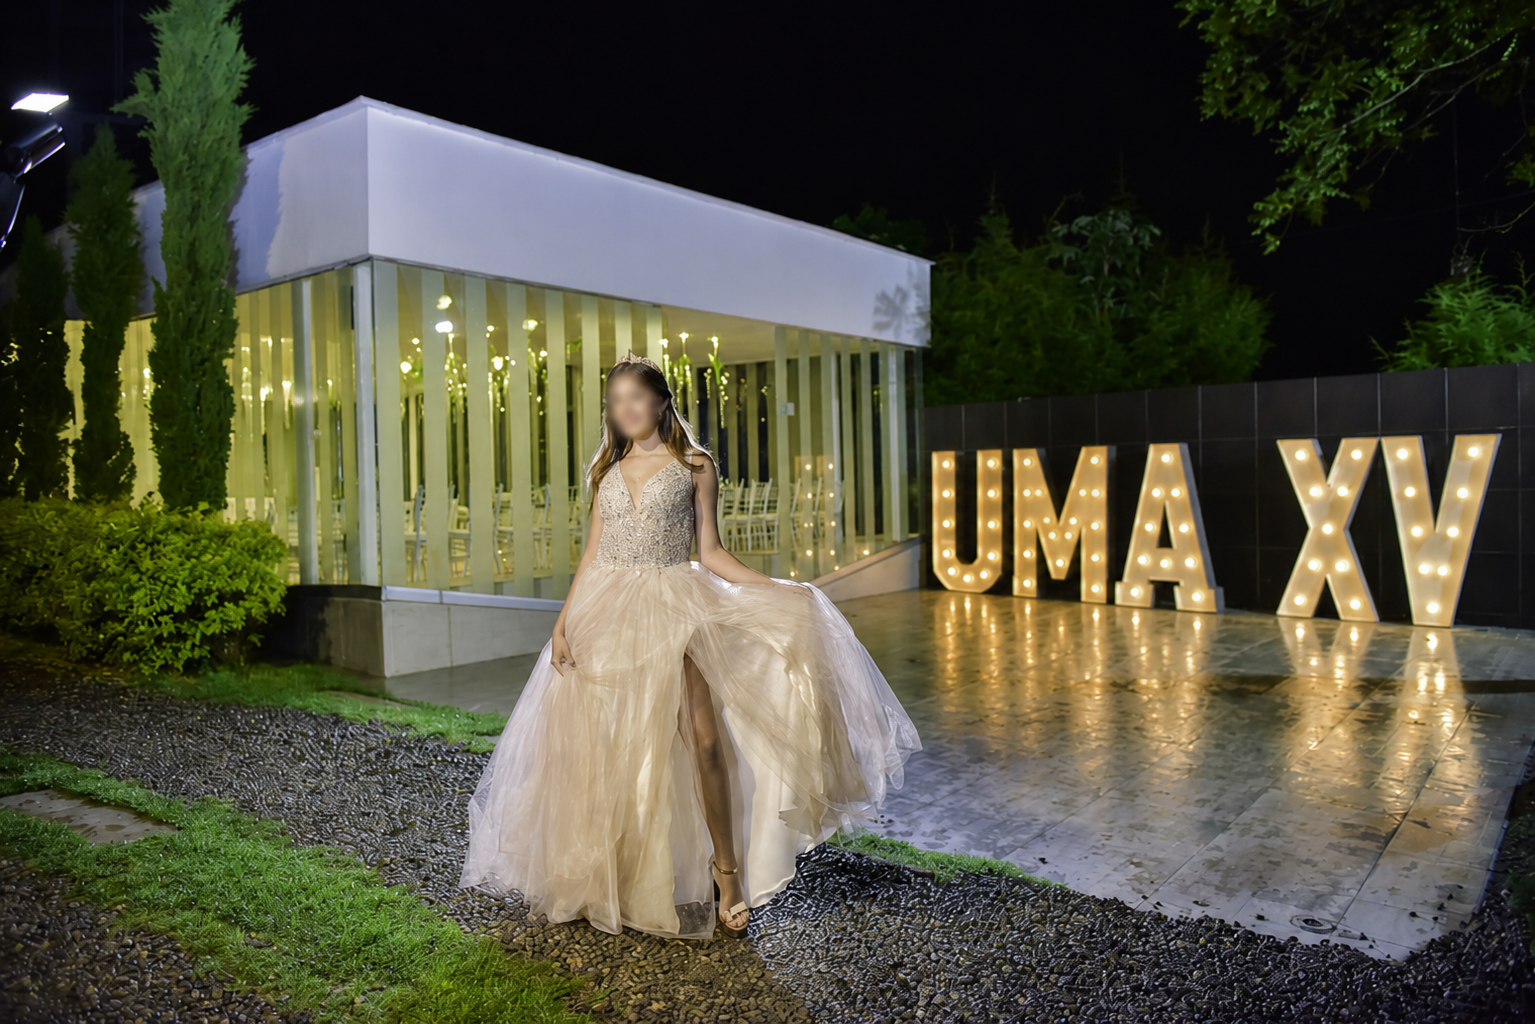
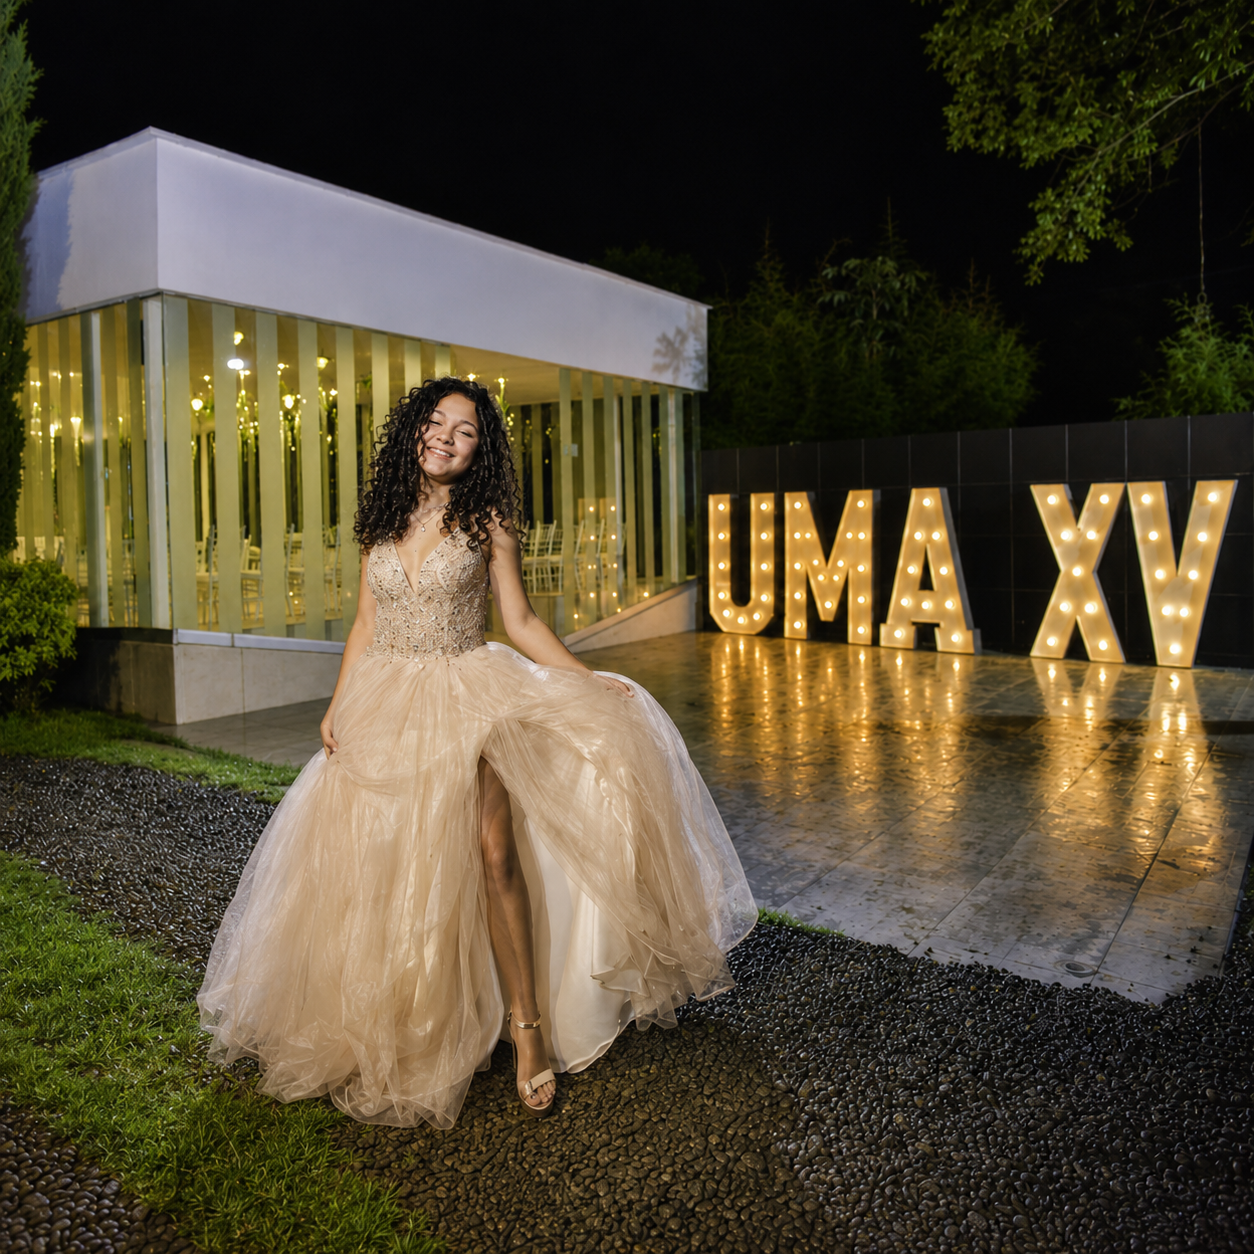
imagenes y textos

diff --git a/invitaciones/Uma/index.html b/invitaciones/Uma/index.html
@@ -130,23 +130,35 @@
 
             <div class="polaroid-container" id="polaroid-stack" data-aos="zoom-in">
                 <div class="polaroid">
-                    <img src="./assets/img/umi_test_1.jpg" alt="Umita 6">
+                    <img src="./assets/img/umi_1.jpg" alt="Umita 6">
                 </div>
                 <div class="polaroid">
-                    <img src="./assets/img/umi_test_2.jpg" alt="Umita 5">
+                    <img src="./assets/img/umi_2.jpg" alt="Umita 5">
                 </div>
                 <div class="polaroid">
-                    <img src="./assets/img/umi_test_3.jpg" alt="Umita 4">
+                    <img src="./assets/img/umi_3.jpg" alt="Umita 4">
                 </div>
                 <div class="polaroid">
-                    <img src="./assets/img/umi_test_4.jpg" alt="Umita 3">
+                    <img src="./assets/img/umi_4.jpg" alt="Umita 3">
                 </div>
                 <div class="polaroid">
-                    <img src="./assets/img/umi_test_2.jpg" alt="Umita 2">
+                    <img src="./assets/img/umi_5.jpg" alt="Umita 2">
                 </div>
                 <div class="polaroid">
-                    <img src="./assets/img/umi_test_1.jpg" alt="Umita 1">
+                    <img src="./assets/img/umi_6.jpg" alt="Umita 1">
                 </div>
+                <div class="polaroid">
+                    <img src="./assets/img/umi_7.jpg" alt="Umita 1">
+                </div>
+                <div class="polaroid">
+                    <img src="./assets/img/umi_8.jpg" alt="Umita 1">
+                </div>
+                <div class="polaroid">
+                    <img src="./assets/img/umi_9.jpg" alt="Umita 1">
+                </div>
+                <div class="polaroid">
+                    <img src="./assets/img/umi_10.jpg" alt="Umita 1">
+                </div>                                                                
             </div>
         </div>
     </section>

diff --git a/invitaciones/Uma/css/styles.css b/invitaciones/Uma/css/styles.css
@@ -147,14 +147,14 @@ img {
     z-index: 1;
     text-align: center;
     color: var(--color-text-light);
-    padding: 0 20px;
+    padding: 0 10px;
     max-width: 600px;
 }
 
 .welcome__title {
     font-family: var(--font-heading);
-    font-size: 5rem;
-    margin-bottom: 20px;
+    font-size: 3rem;
+    margin-bottom: 10px;
     font-weight: normal;
     text-shadow: 2px 2px 10px rgba(0, 0, 0, 0.5);
 }
@@ -172,7 +172,7 @@ img {
 .hero {
     position: relative;
     height: 100vh;
-    background: url('../assets/img/umi_test_1.jpg') center/cover no-repeat;
+    background: url('../assets/img/umi_2.jpg') center/cover no-repeat;
     display: flex;
     align-items: center;
     justify-content: center;
@@ -202,7 +202,7 @@ img {
 
 .hero__title {
     font-family: var(--font-heading);
-    font-size: 6rem;
+    font-size: 3rem;
     text-shadow: 2px 2px 10px rgba(0, 0, 0, 0.4);
     margin-bottom: 10px;
     font-weight: normal;
